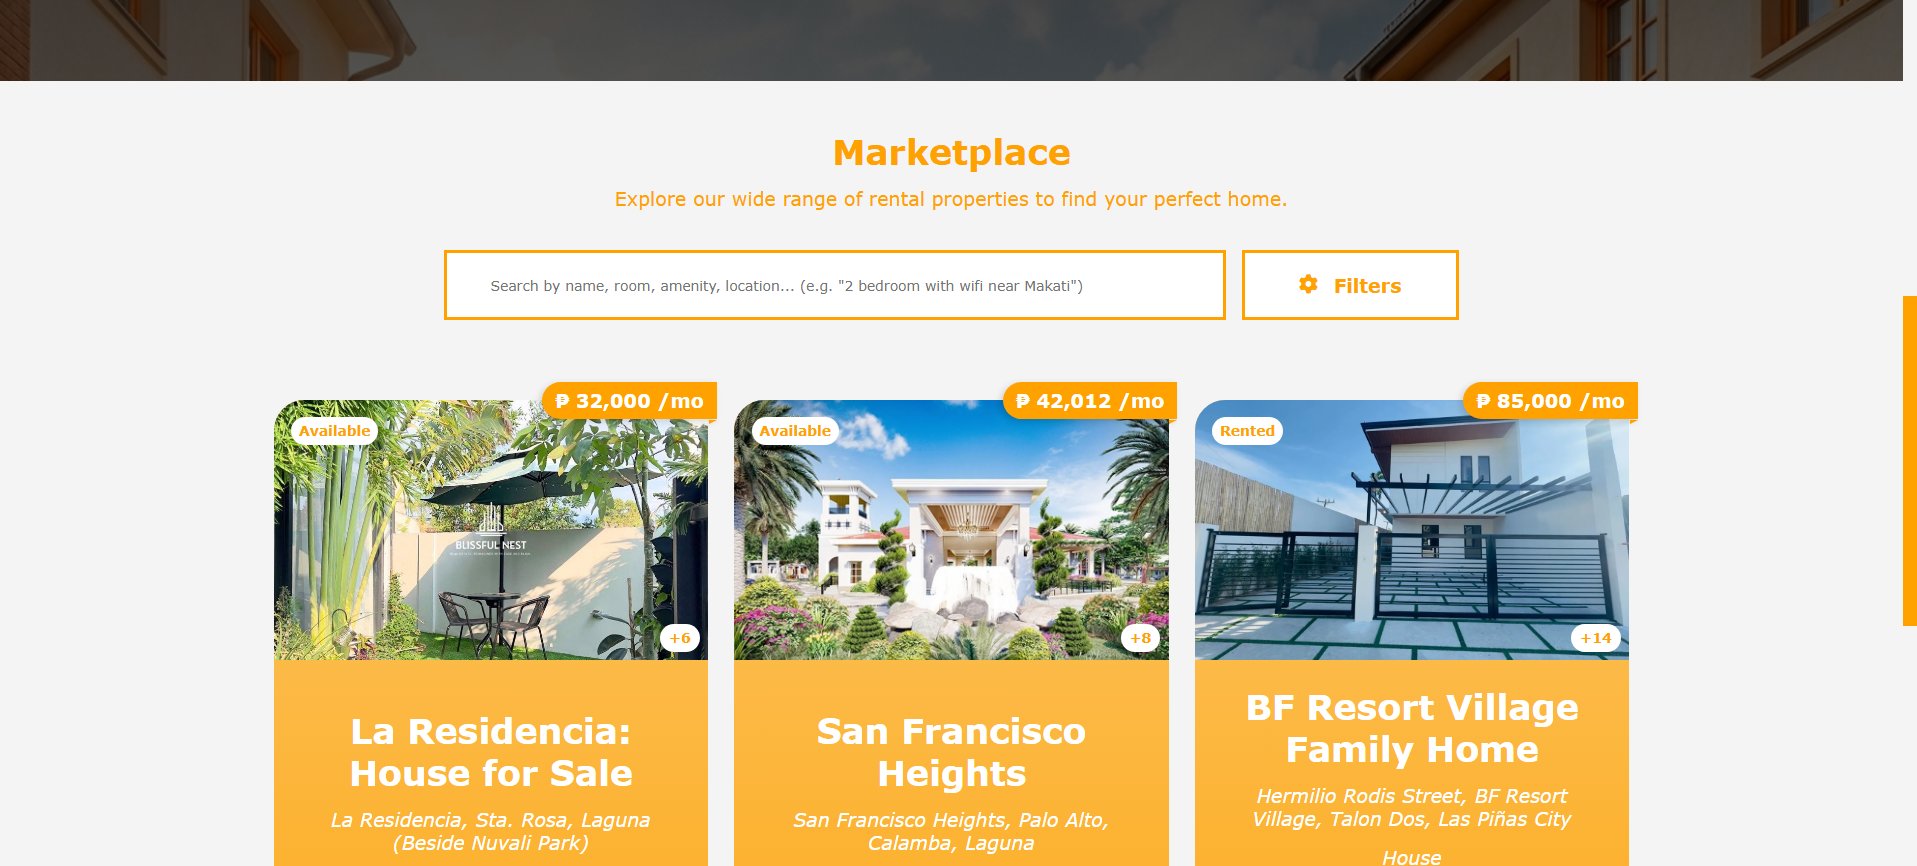
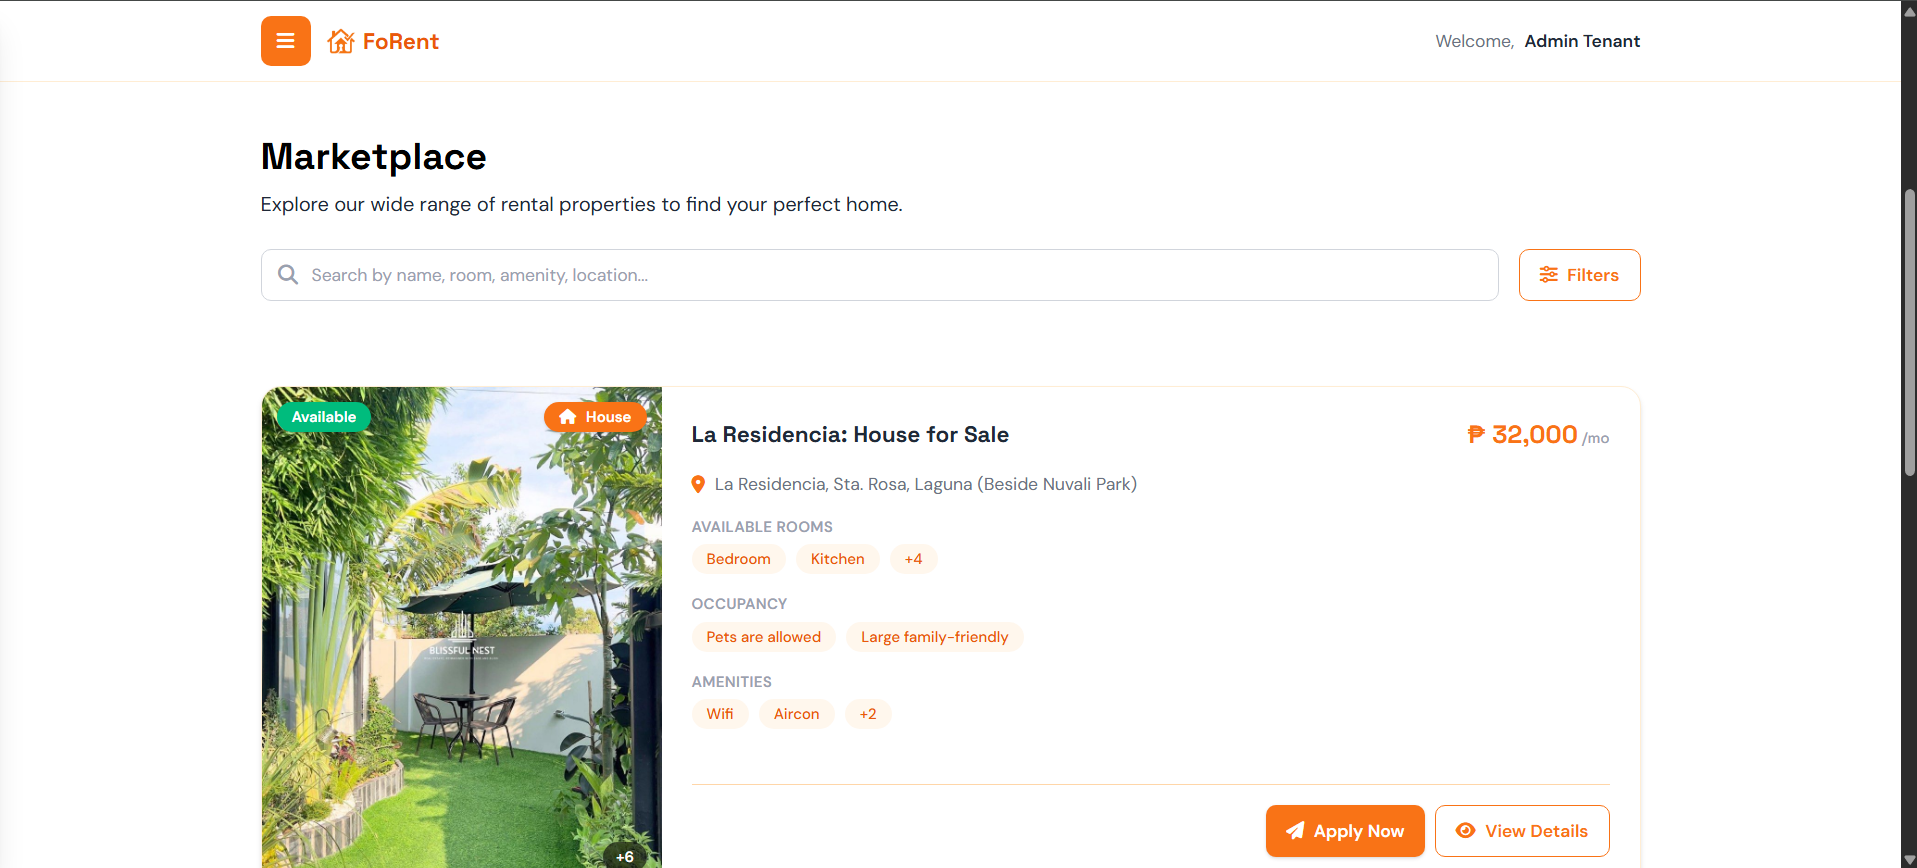
feat: Add new FoRent assets and update reference

diff --git a/src/constants/ProjectAssetRef.ts b/src/constants/ProjectAssetRef.ts
@@ -33,9 +33,20 @@ export const assets = {
   ],
   forent: [
     { src: '/images/forent/forent-header.png', caption: 'Header and Navigation' },
-    { src: '/images/forent/forent-filter-nav.png', caption: 'Marketplace Filters and Navigation' },
     { src: '/images/forent/forent-marketplace.png', caption: 'Marketplace' },
-    { src: '/images/forent/forent-details.png', caption: 'Property Details' },
+    { src: '/images/forent/forent-pagination.png', caption: 'Marketplace Pagination' },
+    { src: '/images/forent/forent-gallery.png', caption: 'Property Image Gallery' },
+    { src: '/images/forent/forent-property-details.png', caption: 'Property Details' },
+    { src: '/images/forent/forent-property-applications.png', caption: 'Property Applications' },
+    { src: '/images/forent/forent-property-rentals.png', caption: 'Property Rentals' },
+    { src: '/images/forent/forent-maintenance-form.png', caption: 'Maintenance Request Form' },
+    { src: '/images/forent/forent-maintenance-requests.png', caption: 'Maintenance Requests' },
+    { src: '/images/forent/forent-payments.png', caption: 'Payment History' },
+    { src: '/images/forent/forent-stripe-payment.png', caption: 'Stripe Payment' },
+    { src: '/images/forent/forent-payment-successful.png', caption: 'Successful Payment' },
+    { src: '/images/forent/forent-payment-cancel.png', caption: 'Canceled Payment' },
+    { src: '/images/forent/forent-view-profile.png', caption: 'View Profile' },
+    { src: '/images/forent/forent-update-profile.png', caption: 'Update Profile' },
   ],
   pokedex: [
     { src: '/images/pokedex/pokedex-intro.png', caption: 'Introduction' },
